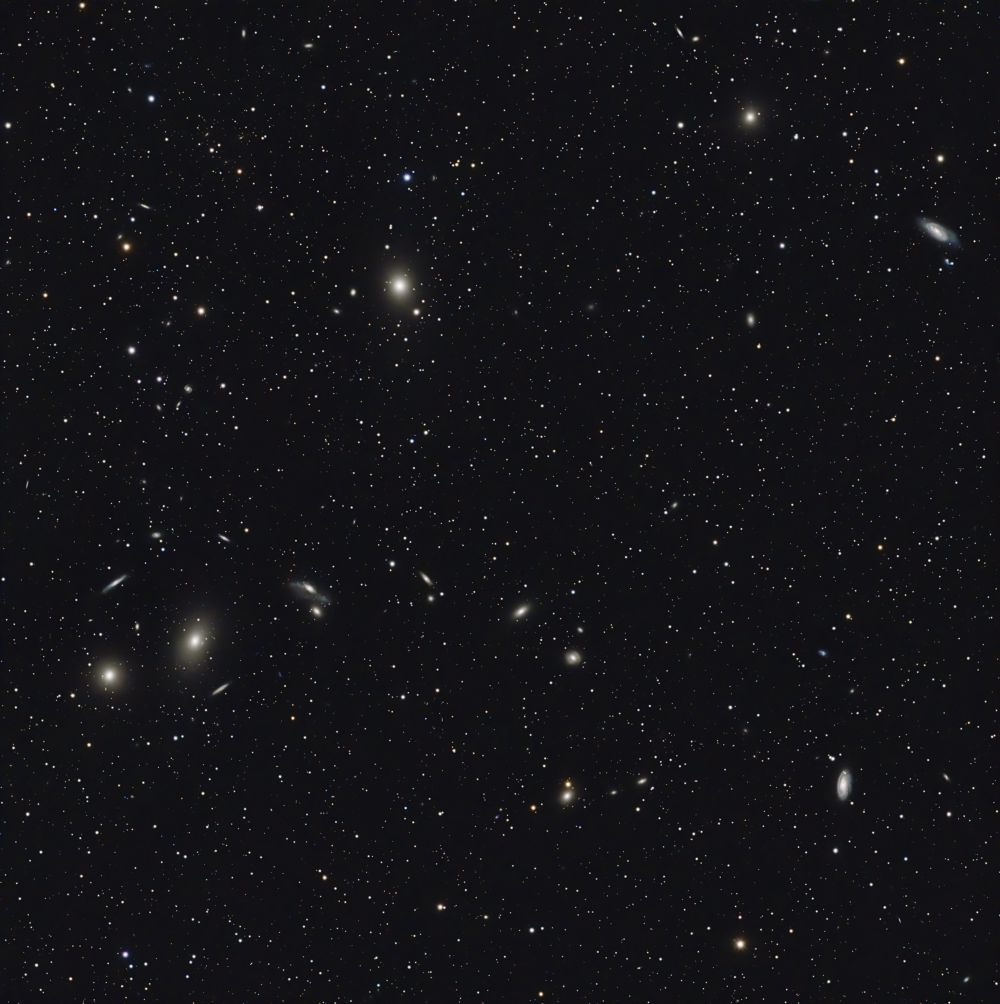
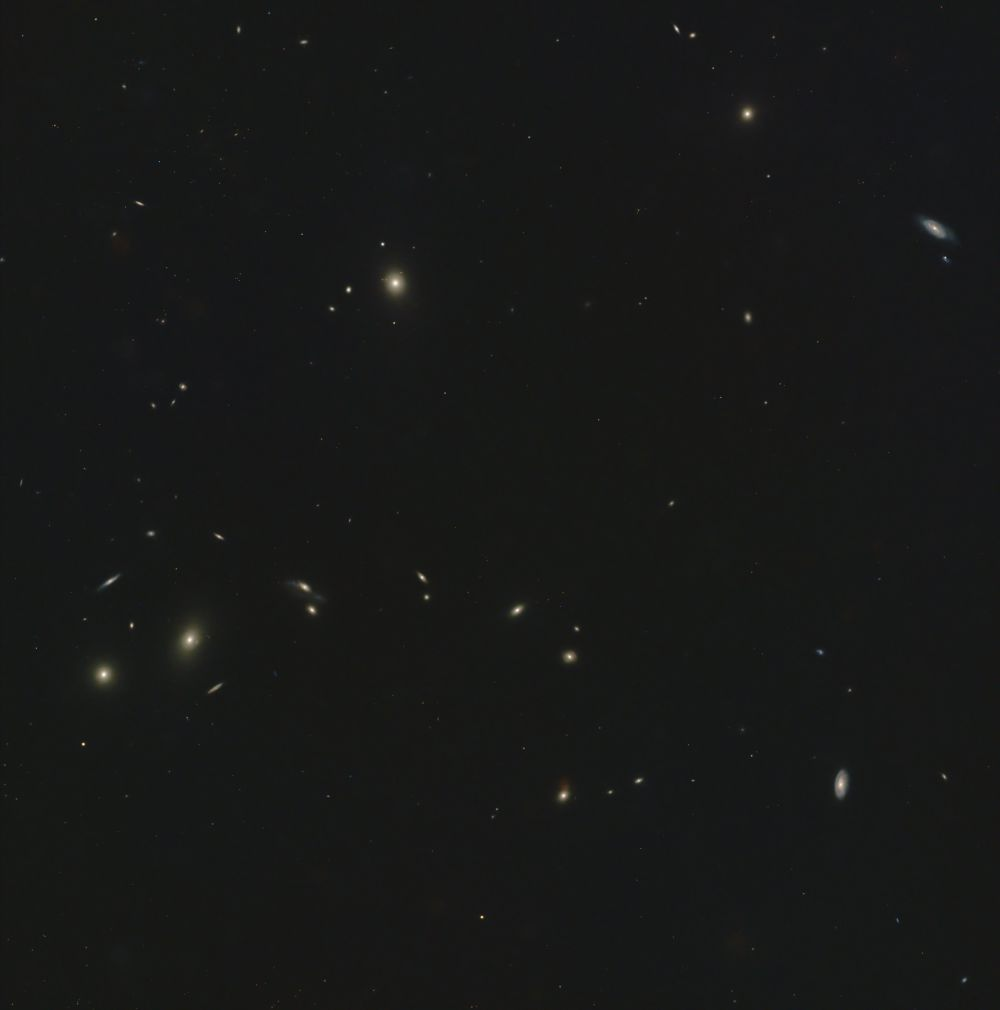
new virgo

diff --git a/index.html b/index.html
@@ -47,11 +47,11 @@
         </div>
         <div class="imageContainer">
             <img class="preview" src="/images/beehive.jpg">
-            <img class="preview" src="/images/virgo.jpg">
+            <img class="preview" src="/images/virgostarry.jpg">
         </div>
         <div class="subContainer">
             <p class="preview-text"><b><a href="images/beehive_full.jpg">M44 - Beehive Cluster</a></b><br/><br/>Total Integration Time: <b>30 minutes</b><br/>Camera: <b>ASI 533MC Pro</b><br/>Focal Length/Ratio: <b>940mm f/6.2</b><br/>Mount: <b>SkyWatcher HEQ5 Pro</b><br/>Filters: <b>SVBony UVIR Cut</b><br/>Date: <b>3/13/24</b></p>
-            <p class="preview-text"><b><a href="images/virgo_full.jpg">Virgo Supercluster (Annotated)</a></b><br/><br/>Total Integration Time: <b>2.5 hours</b><br/>Camera: <b>ASi 533MC Pro</b><br/>Focal Length/Ratio: <b>200mm f/4</b><br/>Mount: <b>Explore Scientific iEXOS100-2</b><br/>Filters: <b>SVBony UVIR Cut</b><br/>Date: <b>3/11/24</b></p>
+            <p class="preview-text"><b><a href="images/virgostarless_full.jpg">Virgo Supercluster (Starless)</a></b><br/><br/>Total Integration Time: <b>2.5 hours</b><br/>Camera: <b>ASi 533MC Pro</b><br/>Focal Length/Ratio: <b>200mm f/4</b><br/>Mount: <b>Explore Scientific iEXOS100-2</b><br/>Filters: <b>SVBony UVIR Cut</b><br/>Date: <b>3/11/24</b></p>
         </div>
         <div class="imageContainer">
             <img class="preview" src="images/ic2169.jpg">
